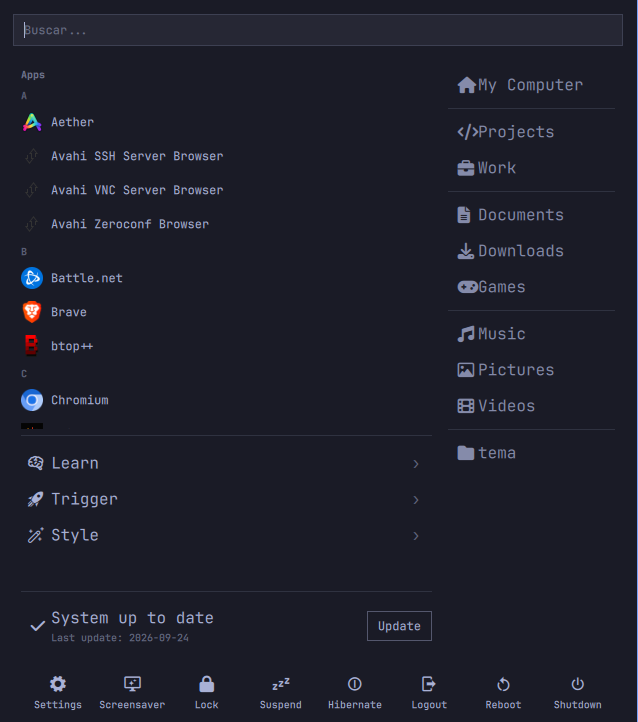
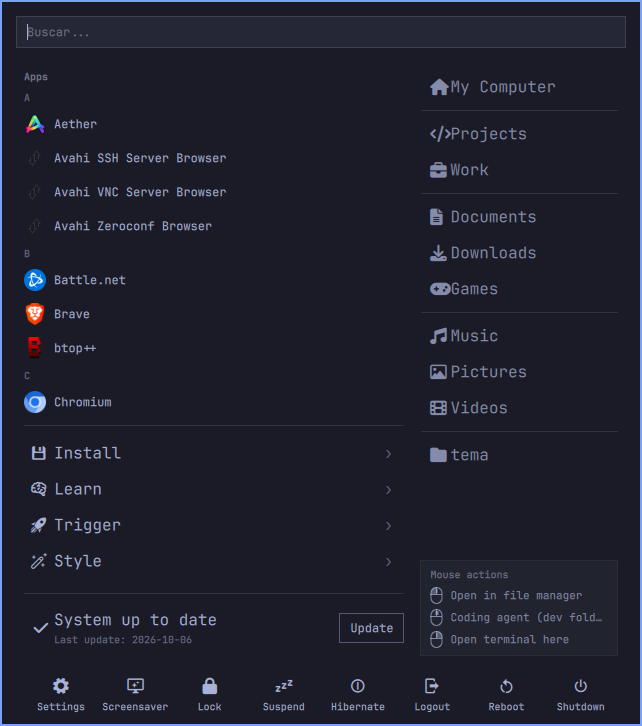
docs: refresh main menu screenshot and add settings window

diff --git a/README.md b/README.md
@@ -42,6 +42,8 @@ Press `Super + Space` (or `Super + Escape`) to confirm the traditional menu stil
 
 Opens from the footer (the main popup closes first). One window, left section menu, `Esc`/outside-click/`X` to close.
 
+![OmaStart settings window](assets/settings.png)
+
 - **General → Favorite folders** — pick folders with a zenity dialog (same pattern as the wallweave plugin), persisted as a JSON array in `~/.local/state/omarchy/settings/omastart-favorites.json`. Each entry has a Remove button. Favorites appear in the places column after a divider, shown by basename (the full path shows in the mouse actions card on hover).
 - **Defaults** — Agent, Browser, Terminal and Editor as radio lists with a filter field. Options, visibility rules and set actions are derived at runtime from the merged menu (your overrides apply). The current default is selected; clicking an uninstalled option runs its traditional installer. State is evaluated in a single bash pass and watched live on disk.
 - **Printers** — installed CUPS printers (`lpstat`) with an Online/Offline indicator. Reachability is probed only while the page is visible (fast ticks when something is offline, slow otherwise); USB printers are matched via `lsusb`, network ones via TCP. Offline network printers get a **Refresh** button that re-discovers them over mDNS and updates a moved IP via polkit. **Find network printers** opens a discovery window (`driverless` + `_ipp`/`_ipps`/`_printer`/JetDirect mDNS, minus already-installed ones) with per-row **Install** buttons (`lpadmin` through the sudo floating terminal, `everywhere` for IPP, raw otherwise).
